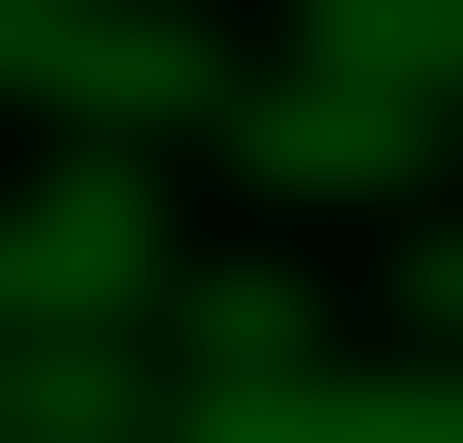
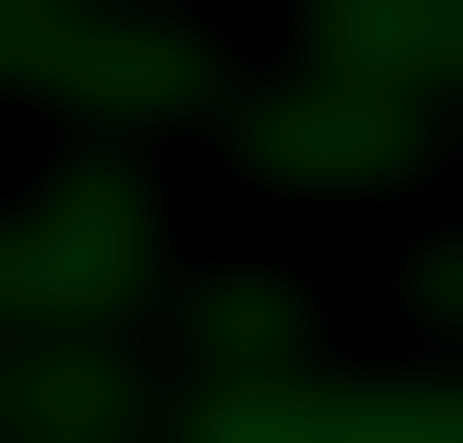
commit

Changed region(s): [[0.4536, 0.9097, 1.0, 1.0]]

diff --git a/html/falloutrp.html b/html/falloutrp.html
@@ -7,6 +7,10 @@
             background-color: black;
             color: rgb(28, 194, 28);
             font-family: monospace;
+            background-image: url("https://github.mapping-latam.cl/html/img/falloutrp/background.png");
+            background-size: cover;
+            background-repeat: no-repeat;
+            background-attachment: fixed;
         }
 
         h1 {
